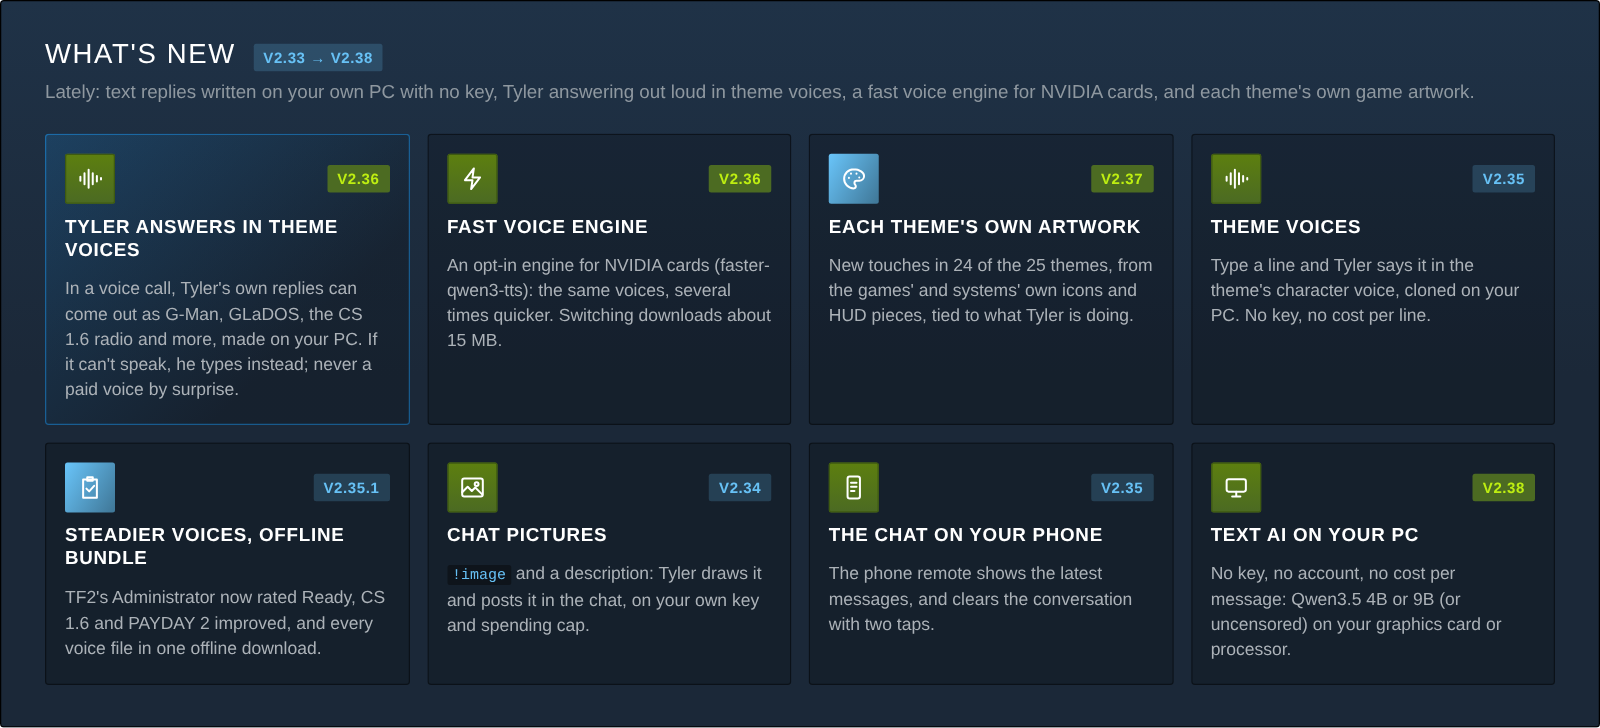
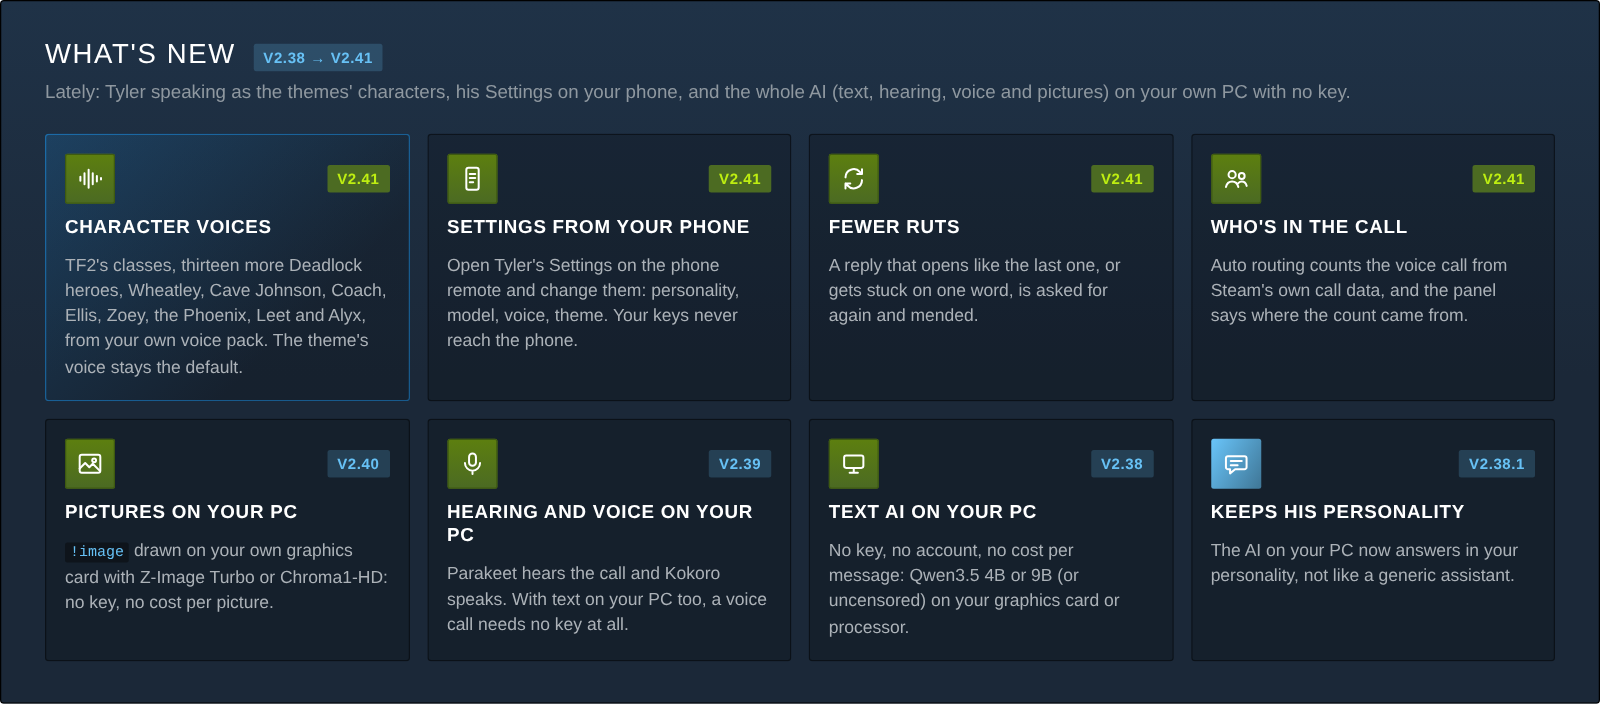
README refresh for v2.41: two new feature images, What's new, phone Settings, fixed personality crop
- New: feature-pc (Settings → AI on this PC on an example PC: Qwen3.5 9B installed, Parakeet and
  Kokoro installed) and feature-characters (Settings → Theme voices → Character voices).
- Updated: What's new (v2.38 → v2.41), the phone remote card (third phone shows Settings on the phone),
  the personality card (the whole card; the save bar no longer cuts it), the repeat protection line.
- README: AI on your own PC row, phone remote Settings, desktop vs Chrome row, image alt texts.
- tools/readme-art/render.mjs: a PC-side Settings stub (the app's own GPU suggestion), Settings on the
  phone from the real remote server, and crop options (height, from, until, hide).

Docs only; build check, unit 487 and e2e 43 pass.

Claude-Session: https://claude.ai/code/session_01BnmFBSBRCmJ5AGaBHpXEjD

diff --git a/tools/readme-art/features.html b/tools/readme-art/features.html
@@ -60,7 +60,7 @@ code{font-family:var(--rt-font-mono);font-size:13px;color:var(--rt-link);backgro
 
 <!-- 2. Personality -->
 <div class="bg right" data-shot="feature-personality">
- <div class="m cut shot" style="left:56px;top:56px;width:640px;height:504px"><img data-panel="settings:zone=ai&sheets=%23personalitySheet" alt=""><div class="fade"></div></div>
+ <div class="m cut shot" style="left:56px;top:56px;width:640px;height:504px"><img data-panel="settings:zone=ai&sheets=%23personalitySheet&height=2400" alt=""><div class="fade"></div></div>
  <div class="copy"><span class="tag blue">Personality</span>
   <h2>He's your guy, your way</h2>
   <p>Start from a preset, then shape him with sliders or write him up in your own words.</p>
@@ -100,11 +100,11 @@ code{font-family:var(--rt-font-mono);font-size:13px;color:var(--rt-link);backgro
   <h2>Run Tyler from your phone</h2>
   <p>His panel on your phone, live and in your theme, with the theme's own extras. Nothing to install: the desktop app serves it on your home Wi-Fi.</p>
   <ul><li>Start and pause him, play clips, run the Music DJ, read and type in chat, run the full check.</li>
-   <li><b>Switch the theme</b> for every Tyler window, right from the phone.</li>
-   <li>Paired with a code from Settings. Its chat log shows what's being said; it never sees your keys.</li></ul></div>
+   <li><b>His Settings on the phone:</b> personality, AI model, voice, theme and more, saved on the PC.</li>
+   <li>Paired with a code from Settings. Your keys never reach the phone: it only shows whether one is saved.</li></ul></div>
  <div class="phone" style="left:536px;top:38px"><i class="k l" style="top:92px;height:20px"></i><i class="k l" style="top:126px;height:36px"></i><i class="k l" style="top:170px;height:36px"></i><i class="k r" style="top:140px;height:56px"></i><div class="glass"><div class="screen"><div class="sb"><b>9:41</b><span class="island"></span><span class="sys"><svg width="15" height="10" viewBox="0 0 15 10"><rect x="0" y="7" width="2.6" height="3" rx=".6"/><rect x="4" y="5" width="2.6" height="5" rx=".6"/><rect x="8" y="2.6" width="2.6" height="7.4" rx=".6"/><rect x="12" y="0" width="2.6" height="10" rx=".6"/></svg><svg width="13" height="10" viewBox="0 0 13 10"><path d="M6.5 2.1c1.9 0 3.6.7 4.9 1.9l1.1-1.1A8.5 8.5 0 0 0 6.5.5 8.5 8.5 0 0 0 .5 2.9L1.6 4a7 7 0 0 1 4.9-1.9Zm0 3a4.2 4.2 0 0 1 2.8 1.1l1.1-1.1A5.7 5.7 0 0 0 6.5 3.5a5.7 5.7 0 0 0-3.9 1.6l1.1 1.1a4.2 4.2 0 0 1 2.8-1.1Zm0 2.9 1.5-1.5a2.2 2.2 0 0 0-3 0L6.5 8Z"/></svg><span class="bat"></span></span></div><img data-panel="remote:theme=steam&tab=conversation" alt=""><i class="home"></i></div></div><span class="label">Steam</span></div>
  <div class="phone" style="left:768px;top:38px"><i class="k l" style="top:92px;height:20px"></i><i class="k l" style="top:126px;height:36px"></i><i class="k l" style="top:170px;height:36px"></i><i class="k r" style="top:140px;height:56px"></i><div class="glass"><div class="screen"><div class="sb"><b>9:41</b><span class="island"></span><span class="sys"><svg width="15" height="10" viewBox="0 0 15 10"><rect x="0" y="7" width="2.6" height="3" rx=".6"/><rect x="4" y="5" width="2.6" height="5" rx=".6"/><rect x="8" y="2.6" width="2.6" height="7.4" rx=".6"/><rect x="12" y="0" width="2.6" height="10" rx=".6"/></svg><svg width="13" height="10" viewBox="0 0 13 10"><path d="M6.5 2.1c1.9 0 3.6.7 4.9 1.9l1.1-1.1A8.5 8.5 0 0 0 6.5.5 8.5 8.5 0 0 0 .5 2.9L1.6 4a7 7 0 0 1 4.9-1.9Zm0 3a4.2 4.2 0 0 1 2.8 1.1l1.1-1.1A5.7 5.7 0 0 0 6.5 3.5a5.7 5.7 0 0 0-3.9 1.6l1.1 1.1a4.2 4.2 0 0 1 2.8-1.1Zm0 2.9 1.5-1.5a2.2 2.2 0 0 0-3 0L6.5 8Z"/></svg><span class="bat"></span></span></div><img data-panel="remote:theme=payday&tab=conversation&state=THINKING — preparing a typed reply…" alt=""><i class="home"></i></div></div><span class="label">PAYDAY 2</span></div>
- <div class="phone" style="left:1000px;top:38px"><i class="k l" style="top:92px;height:20px"></i><i class="k l" style="top:126px;height:36px"></i><i class="k l" style="top:170px;height:36px"></i><i class="k r" style="top:140px;height:56px"></i><div class="glass"><div class="screen"><div class="sb"><b>9:41</b><span class="island"></span><span class="sys"><svg width="15" height="10" viewBox="0 0 15 10"><rect x="0" y="7" width="2.6" height="3" rx=".6"/><rect x="4" y="5" width="2.6" height="5" rx=".6"/><rect x="8" y="2.6" width="2.6" height="7.4" rx=".6"/><rect x="12" y="0" width="2.6" height="10" rx=".6"/></svg><svg width="13" height="10" viewBox="0 0 13 10"><path d="M6.5 2.1c1.9 0 3.6.7 4.9 1.9l1.1-1.1A8.5 8.5 0 0 0 6.5.5 8.5 8.5 0 0 0 .5 2.9L1.6 4a7 7 0 0 1 4.9-1.9Zm0 3a4.2 4.2 0 0 1 2.8 1.1l1.1-1.1A5.7 5.7 0 0 0 6.5 3.5a5.7 5.7 0 0 0-3.9 1.6l1.1 1.1a4.2 4.2 0 0 1 2.8-1.1Zm0 2.9 1.5-1.5a2.2 2.2 0 0 0-3 0L6.5 8Z"/></svg><span class="bat"></span></span></div><img data-panel="remote:theme=pipboy&tab=setup&state=LISTENING — speak normally, then pause" alt=""><i class="home"></i></div></div><span class="label">Pip-Boy · theme picker</span></div>
+ <div class="phone" style="left:1000px;top:38px"><i class="k l" style="top:92px;height:20px"></i><i class="k l" style="top:126px;height:36px"></i><i class="k l" style="top:170px;height:36px"></i><i class="k r" style="top:140px;height:56px"></i><div class="glass"><div class="screen"><div class="sb"><b>9:41</b><span class="island"></span><span class="sys"><svg width="15" height="10" viewBox="0 0 15 10"><rect x="0" y="7" width="2.6" height="3" rx=".6"/><rect x="4" y="5" width="2.6" height="5" rx=".6"/><rect x="8" y="2.6" width="2.6" height="7.4" rx=".6"/><rect x="12" y="0" width="2.6" height="10" rx=".6"/></svg><svg width="13" height="10" viewBox="0 0 13 10"><path d="M6.5 2.1c1.9 0 3.6.7 4.9 1.9l1.1-1.1A8.5 8.5 0 0 0 6.5.5 8.5 8.5 0 0 0 .5 2.9L1.6 4a7 7 0 0 1 4.9-1.9Zm0 3a4.2 4.2 0 0 1 2.8 1.1l1.1-1.1A5.7 5.7 0 0 0 6.5 3.5a5.7 5.7 0 0 0-3.9 1.6l1.1 1.1a4.2 4.2 0 0 1 2.8-1.1Zm0 2.9 1.5-1.5a2.2 2.2 0 0 0-3 0L6.5 8Z"/></svg><span class="bat"></span></span></div><img data-panel="phoneset:theme=pipboy&zone=ai" alt=""><i class="home"></i></div></div><span class="label">Pip-Boy · Settings</span></div>
 </div>
 
 <!-- 6. Staying connected (v2.26 README) -->
@@ -116,7 +116,31 @@ code{font-family:var(--rt-font-mono);font-size:13px;color:var(--rt-link);backgro
   <p>Tyler keeps himself in the call and on the chat, and tells you plainly when something needs you.</p>
   <ul><li><b>Stay connected:</b> after 45 quiet minutes he hums once, softly, so Steam doesn't drop him. If Steam redraws the chat, he finds the same channel again.</li>
    <li><b>Full check:</b> chat, microphone, call, music, AI key, speech and a test beep in one pass.</li>
-   <li><b>Repeat protection:</b> he notices when he's saying the same thing again.</li></ul></div>
+   <li><b>Repeat protection:</b> he notices when he's saying the same thing again, opening every reply the same way or stuck on one word.</li></ul></div>
+</div>
+
+<!-- 7. AI on your PC (v2.41 README): Settings → AI on this PC in the desktop app, as on an example PC -->
+<div class="bg left" data-shot="feature-pc">
+ <div class="copy"><span class="tag green">On your PC</span>
+  <h2>AI on your own PC</h2>
+  <p>In the desktop app, Tyler can write, hear, speak and draw on your own PC. No key, no account, no cost per message.</p>
+  <ul><li><b>Text:</b> Qwen3.5 4B or 9B (or uncensored) on any recent NVIDIA, AMD or Intel card, or the processor.</li>
+   <li><b>Voice calls:</b> Parakeet hears, Kokoro or the theme voices speak. With all three, a call needs no key.</li>
+   <li><b>Pictures:</b> Z-Image Turbo or Chroma1-HD; the description isn't sent anywhere.</li>
+   <li>Optional downloads, sizes shown first. He never switches to a cloud AI by himself.</li></ul></div>
+ <div class="m shot" style="left:552px;top:44px;width:672px"><img data-panel="settings:zone=ai&sheets=%23localAI&desktop=1&stub=pc&until=%23laModelNote&hide=%23localAI%20.sheet-head%20p%2C%23localAI%20.la-models%20.engine-card%3Anth-child(n%2B3)&height=2400" alt=""></div>
+ <div class="m shot" style="left:700px;top:334px;width:524px"><img data-panel="settings:zone=ai&sheets=%23localAI&desktop=1&stub=pc&from=%23localSpeech&until=%23lsEngineNote&height=2400" alt=""></div>
+</div>
+
+<!-- 8. Character voices (v2.41 README): Settings → Voice → Theme voices → Character voices -->
+<div class="bg right" data-shot="feature-characters">
+ <div class="m cut shot" style="left:56px;top:48px;width:640px;height:512px"><img data-panel="settings:zone=voice&sheets=%23theme-voices&desktop=1&stub=pc&from=%23theme-voices%20h3%3Ahas(%2B%20p%20%2B%20%23tvCharState)&until=%23tvCharVoiceState%20%2B%20h3&height=2400" alt=""><div class="fade"></div></div>
+ <div class="copy"><span class="tag blue">Character voices</span>
+  <h2>Speak as the characters</h2>
+  <p>Six themes can also speak as one of their characters, from the voice pack you import. The theme's own voice stays the default.</p>
+  <ul><li><b>Team Fortress 2's classes,</b> thirteen more Deadlock heroes, Wheatley and Cave Johnson, Coach, Ellis and Zoey, the Phoenix and Leet, and Alyx.</li>
+   <li>One picker per theme, on the PC or the phone, with the <b>original recording</b> next to the <b>generated speech</b>.</li>
+   <li>If a character can't be used, Tyler says why and keeps the theme's voice. Never a silent switch.</li></ul></div>
 </div>
 
 <script>

diff --git a/tools/readme-art/whatsnew.html b/tools/readme-art/whatsnew.html
@@ -1,5 +1,5 @@
 <!doctype html><html><head><meta charset="utf-8"><link rel="stylesheet" href="common.css"><style>
-/* README "What's new" (v2.26, updated for v2.35): the releases since the last README update, as capsules in the app's
+/* README "What's new" (v2.26, updated for v2.35 and v2.41): the releases since the last README update, as capsules in the app's
    Steam theme: the panel's icons on Steam's blue, version chips, tracked capitals. 1.25x. */
 .bg{width:1280px;padding:30px 36px 34px;box-sizing:border-box;background:var(--rt-bg) linear-gradient(180deg,var(--rt-page-glow) 0,var(--rt-bg) 300px) no-repeat}
 .head{display:flex;align-items:baseline;gap:14px;margin:0 0 6px}
@@ -20,23 +20,23 @@ b.t{font-size:15px;font-weight:700;letter-spacing:.04em;text-transform:uppercase
 p{margin:0;font-size:14px;line-height:1.45;color:var(--rt-ink-2)}
 code{font-family:var(--rt-font-mono);font-size:12px;color:var(--rt-link);background:var(--rt-bg-deep);padding:1px 4px;border-radius:2px}
 </style><script src="../../browser-extension/ui-icons.js"></script></head><body><div class="bg" data-shot="whats-new">
-<div class="head"><h2>What's new</h2><span class="tag blue">v2.33 → v2.38</span></div>
-<p class="lede">Lately: text replies written on your own PC with no key, Tyler answering out loud in theme voices, a fast voice engine for NVIDIA cards, and each theme's own game artwork.</p>
+<div class="head"><h2>What's new</h2><span class="tag blue">v2.38 → v2.41</span></div>
+<p class="lede">Lately: Tyler speaking as the themes' characters, his Settings on your phone, and the whole AI (text, hearing, voice and pictures) on your own PC with no key.</p>
 <div class="g">
- <div class="c big"><div class="top"><div class="i green"><svg class="own" viewBox="0 0 20 20"><path d="M3 8.5v3M6 6v8M9 3.5v13M12 6v8M15 8v4M18 9.5v1"/></svg></div><span class="tag green v">v2.36</span></div>
-  <b class="t">Tyler answers in theme voices</b><p>In a voice call, Tyler's own replies can come out as G-Man, GLaDOS, the CS 1.6 radio and more, made on your PC. If it can't speak, he types instead; never a paid voice by surprise.</p></div>
- <div class="c"><div class="top"><div class="i green"><svg class="own" viewBox="0 0 20 20"><path d="M11 2.5 4.5 11H10l-1 6.5L15.5 9H10z"/></svg></div><span class="tag green v">v2.36</span></div>
-  <b class="t">Fast voice engine</b><p>An opt-in engine for NVIDIA cards (faster-qwen3-tts): the same voices, several times quicker. Switching downloads about 15 MB.</p></div>
- <div class="c"><div class="top"><div class="i" data-icon="appearance"></div><span class="tag green v">v2.37</span></div>
-  <b class="t">Each theme's own artwork</b><p>New touches in 24 of the 25 themes, from the games' and systems' own icons and HUD pieces, tied to what Tyler is doing.</p></div>
- <div class="c"><div class="top"><div class="i green"><svg class="own" viewBox="0 0 20 20"><path d="M3 8.5v3M6 6v8M9 3.5v13M12 6v8M15 8v4M18 9.5v1"/></svg></div><span class="tag blue v">v2.35</span></div>
-  <b class="t">Theme voices</b><p>Type a line and Tyler says it in the theme's character voice, cloned on your PC. No key, no cost per line.</p></div>
- <div class="c"><div class="top"><div class="i" data-icon="checks"></div><span class="tag blue v">v2.35.1</span></div>
-  <b class="t">Steadier voices, offline bundle</b><p>TF2's Administrator now rated Ready, CS 1.6 and PAYDAY 2 improved, and every voice file in one offline download.</p></div>
- <div class="c"><div class="top"><div class="i green"><svg class="own" viewBox="0 0 20 20"><rect x="2.5" y="3.5" width="15" height="13" rx="1.5"/><path d="M2.5 13.5l4-4 3 3 2.5-2.5 5 5"/><circle cx="13" cy="7.5" r="1.4"/></svg></div><span class="tag blue v">v2.34</span></div>
-  <b class="t">Chat pictures</b><p><code>!image</code> and a description: Tyler draws it and posts it in the chat, on your own key and spending cap.</p></div>
- <div class="c"><div class="top"><div class="i green"><svg class="own" viewBox="0 0 20 20"><rect x="5.5" y="2" width="9" height="16" rx="1.6"/><path d="M8 6.5h4M8 9.5h4M8 12.5h2.5"/></svg></div><span class="tag blue v">v2.35</span></div>
-  <b class="t">The chat on your phone</b><p>The phone remote shows the latest messages, and clears the conversation with two taps.</p></div>
- <div class="c"><div class="top"><div class="i green"><svg class="own" viewBox="0 0 20 20"><rect x="3" y="4" width="14" height="9" rx="1.5"/><path d="M7 16.5h6M10 13v3.5"/></svg></div><span class="tag green v">v2.38</span></div>
+ <div class="c big"><div class="top"><div class="i green"><svg class="own" viewBox="0 0 20 20"><path d="M3 8.5v3M6 6v8M9 3.5v13M12 6v8M15 8v4M18 9.5v1"/></svg></div><span class="tag green v">v2.41</span></div>
+  <b class="t">Character voices</b><p>TF2's classes, thirteen more Deadlock heroes, Wheatley, Cave Johnson, Coach, Ellis, Zoey, the Phoenix, Leet and Alyx, from your own voice pack. The theme's voice stays the default.</p></div>
+ <div class="c"><div class="top"><div class="i green"><svg class="own" viewBox="0 0 20 20"><rect x="5.5" y="2" width="9" height="16" rx="1.6"/><path d="M8 6.5h4M8 9.5h4M8 12.5h2.5"/></svg></div><span class="tag green v">v2.41</span></div>
+  <b class="t">Settings from your phone</b><p>Open Tyler's Settings on the phone remote and change them: personality, model, voice, theme. Your keys never reach the phone.</p></div>
+ <div class="c"><div class="top"><div class="i green"><svg class="own" viewBox="0 0 20 20"><path d="M4 9a6 6 0 0 1 10.5-3.9L16 6.5M16 3v3.5h-3.5M16 11a6 6 0 0 1-10.5 3.9L4 13.5M4 17v-3.5h3.5"/></svg></div><span class="tag green v">v2.41</span></div>
+  <b class="t">Fewer ruts</b><p>A reply that opens like the last one, or gets stuck on one word, is asked for again and mended.</p></div>
+ <div class="c"><div class="top"><div class="i green"><svg class="own" viewBox="0 0 20 20"><circle cx="7" cy="7" r="2.6"/><circle cx="14" cy="8" r="2.1"/><path d="M2.5 16c.6-2.6 2.3-4 4.5-4s3.9 1.4 4.5 4M11.5 13.2c.7-.8 1.6-1.2 2.5-1.2 1.8 0 3.1 1.1 3.6 3.2"/></svg></div><span class="tag green v">v2.41</span></div>
+  <b class="t">Who's in the call</b><p>Auto routing counts the voice call from Steam's own call data, and the panel says where the count came from.</p></div>
+ <div class="c"><div class="top"><div class="i green"><svg class="own" viewBox="0 0 20 20"><rect x="2.5" y="3.5" width="15" height="13" rx="1.5"/><path d="M2.5 13.5l4-4 3 3 2.5-2.5 5 5"/><circle cx="13" cy="7.5" r="1.4"/></svg></div><span class="tag blue v">v2.40</span></div>
+  <b class="t">Pictures on your PC</b><p><code>!image</code> drawn on your own graphics card with Z-Image Turbo or Chroma1-HD: no key, no cost per picture.</p></div>
+ <div class="c"><div class="top"><div class="i green"><svg class="own" viewBox="0 0 20 20"><rect x="7.5" y="2.5" width="5" height="9" rx="2.5"/><path d="M4.5 9.5a5.5 5.5 0 0 0 11 0M10 15v2.5"/></svg></div><span class="tag blue v">v2.39</span></div>
+  <b class="t">Hearing and voice on your PC</b><p>Parakeet hears the call and Kokoro speaks. With text on your PC too, a voice call needs no key at all.</p></div>
+ <div class="c"><div class="top"><div class="i green"><svg class="own" viewBox="0 0 20 20"><rect x="3" y="4" width="14" height="9" rx="1.5"/><path d="M7 16.5h6M10 13v3.5"/></svg></div><span class="tag blue v">v2.38</span></div>
   <b class="t">Text AI on your PC</b><p>No key, no account, no cost per message: Qwen3.5 4B or 9B (or uncensored) on your graphics card or processor.</p></div>
+ <div class="c"><div class="top"><div class="i" data-icon="chat"></div><span class="tag blue v">v2.38.1</span></div>
+  <b class="t">Keeps his personality</b><p>The AI on your PC now answers in your personality, not like a generic assistant.</p></div>
 </div></div><script>TylerIcons.fill();</script></body></html>

diff --git a/tools/readme-art/icons.html b/tools/readme-art/icons.html
@@ -18,5 +18,6 @@
 <div class="i" data-shot="icon-remote"><svg class="ic own" viewBox="0 0 20 20"><rect x="5.5" y="2" width="9" height="16" rx="1.6"/><path d="M8.6 15.2h2.8"/><path d="M8 6.5l3 2-3 2z"/></svg></div>
 <div class="i" data-shot="icon-theme-voices"><svg class="ic own" viewBox="0 0 20 20"><path d="M3 8.5v3M6 6v8M9 3.5v13M12 6v8M15 8v4M18 9.5v1"/></svg></div>
 <div class="i" data-shot="icon-images"><svg class="ic own" viewBox="0 0 20 20"><rect x="2.5" y="3.5" width="15" height="13" rx="1.5"/><path d="M2.5 13.5l4-4 3 3 2.5-2.5 5 5"/><circle cx="13" cy="7.5" r="1.4"/></svg></div>
+<div class="i green" data-shot="icon-pc"><svg class="ic own" viewBox="0 0 20 20"><rect x="3" y="4" width="14" height="9" rx="1.5"/><path d="M7 16.5h6M10 13v3.5"/></svg></div>
 <div class="i" data-shot="icon-stay"><svg class="ic own" viewBox="0 0 20 20"><path d="M2 10.5h3.2l1.6-3.6 2.6 7 2.2-5.2 1.3 1.8H18"/></svg></div>
 </div><script>TylerIcons.fill();</script></body></html>

diff --git a/README.md b/README.md
@@ -15,7 +15,7 @@
 
 <p align="center"><b>Tyler is an AI squadmate for Steam.</b> He sits in your group chat and voice channel, talks like one of the crew, and keeps the night going with trivia, votes, sounds and music.</p>
 
-<p align="center"><a href="CHANGES.md"><img src="assets/readme/whats-new.png" width="100%" alt="What's new since v2.33: text AI on your PC with no key (v2.38), Tyler answers in theme voices (v2.36), a fast voice engine for NVIDIA cards (v2.36), each theme's own game artwork (v2.37), theme voices (v2.35), steadier voices and an offline bundle (v2.35.1), chat pictures (v2.34) and the chat on your phone (v2.35)."></a></p>
+<p align="center"><a href="CHANGES.md"><img src="assets/readme/whats-new.png" width="100%" alt="What's new since v2.38: character voices (v2.41), Settings from your phone (v2.41), fewer repeated openings and stuck words (v2.41), who's in the call from Steam's own data (v2.41), pictures on your PC (v2.40), hearing and voice on your PC (v2.39), text AI on your PC (v2.38) and keeping your personality on it (v2.38.1)."></a></p>
 
 ---
 
@@ -39,8 +39,11 @@
 <td valign="top"><img src="assets/readme/icon-images.png" width="52" align="left" alt="">&nbsp;<b>Chat pictures</b> <sup>new</sup><br>&nbsp;<code>!image</code> and a description: Tyler draws it and posts it in the chat, with your own OpenRouter or Venice key and within your spending cap, or on your own PC with no key (desktop app, v2.40).</td>
 </tr>
 <tr>
-<td valign="top"><img src="assets/readme/icon-remote.png" width="52" align="left" alt="">&nbsp;<b>Phone remote</b><br>&nbsp;Tyler's panel on your phone, live and in your theme. Start or pause him, play clips, run the music, read and type in chat, switch the theme, change his settings. Nothing to install.</td>
+<td valign="top"><img src="assets/readme/icon-remote.png" width="52" align="left" alt="">&nbsp;<b>Phone remote</b><br>&nbsp;Tyler's panel on your phone, live and in your theme. Start or pause him, play clips, run the music, read and type in chat, switch the theme, and open his <b>Settings</b> to change them (your keys stay on the PC). Nothing to install.</td>
 <td valign="top"><img src="assets/readme/icon-stay.png" width="52" align="left" alt="">&nbsp;<b>Stays in the call</b><br>&nbsp;A soft hum after 45 quiet minutes keeps Steam from dropping him, and he reconnects to the chat by himself. A full check tests every part in one pass.</td>
+</tr>
+<tr>
+<td colspan="2" valign="top"><img src="assets/readme/icon-pc.png" width="52" align="left" alt="">&nbsp;<b>AI on your own PC</b> <sup>new</sup><br>&nbsp;In the desktop app, Tyler can write his replies, hear the call, speak and draw the chat's pictures on your own graphics card or processor: no key, no account, no cost per message, and he never switches to a cloud AI by himself. Each part is an optional download.</td>
 </tr>
 </table>
 
@@ -50,10 +53,12 @@
 <p align="center"><img src="assets/readme/feature-personality.png" width="100%" alt="Personality: presets, humor, edginess, helpfulness and chaos sliders, a written description, roast intensity, reply length, speed and talkativeness."></p>
 <p align="center"><img src="assets/readme/feature-room.png" width="100%" alt="Room tools: the panel's Room tab with Music DJ open, and the Sounds tab with its soundboard pads."></p>
 <p align="center"><img src="assets/readme/feature-desktop.png" width="100%" alt="The desktop app: its own Steam chat window, with Tyler's panel on air docked beside the chat."></p>
-<p align="center"><img src="assets/readme/feature-remote.png" width="100%" alt="Phone remote: Tyler's panel on three phones, in the Steam, PAYDAY 2 and Pip-Boy themes, the last one showing the theme picker."></p>
+<p align="center"><img src="assets/readme/feature-pc.png" width="100%" alt="AI on your own PC: Settings → AI on this PC on an example PC with an RTX 3060, the Qwen3.5 9B model installed, and hearing (Parakeet) and voice (Kokoro) installed."></p>
+<p align="center"><img src="assets/readme/feature-characters.png" width="100%" alt="Character voices: Settings → Theme voices → Character voices, with a picker for Team Fortress 2, Counter-Strike 2, Portal and Left 4 Dead, each with Original recording and Generated speech."></p>
+<p align="center"><img src="assets/readme/feature-remote.png" width="100%" alt="Phone remote: Tyler's panel on three phones, in the Steam, PAYDAY 2 and Pip-Boy themes, the last one showing Tyler's Settings on the phone (AI & personality)."></p>
 <p align="center"><img src="assets/readme/feature-reliability.png" width="100%" alt="Long nights: the panel's Stay connected settings (hum after 45 quiet minutes, keep the chat connected) and the Checks tab with Run full check."></p>
 
-<sub>Screenshots of the real panel and settings with sample data (the text spend and names are examples).</sub>
+<sub>Screenshots of the real panel and settings with sample data (the text spend, names and the example PC are examples).</sub>
 
 ## Get going in a few minutes
 
@@ -61,7 +66,7 @@
 2. Open ROBOTIC TYLER and sign in to your bot's Steam account in its Steam chat window.
 3. In **Settings**, add an **OpenRouter** or **Google Gemini** key and pick a personality. In the desktop app you can instead choose **This PC (free, no key)**: Tyler's text replies are written by a model on your own PC (see below).
 4. Open your group chat, then **Tyler's panel → Connect & start**, and join the voice channel. That's it: no virtual audio cable, no extra microphone.
-5. *Optional:* **Settings → Overview → Phone remote**, scan the QR code with your phone and type the 6-digit code. Add the page to your home screen and Tyler is one tap away.
+5. *Optional:* **Settings → Overview → Phone remote**, scan the QR code with your phone and type the 6-digit code. Add the page to your home screen and Tyler is one tap away; its **Setup → Open Settings** changes his settings from the phone.
 
 > Setup isn't code-signed. If Windows says *"Windows protected your PC"*, choose **More info → Run anyway**. Setup checks each download's SHA-256 before it runs it, and the desktop app updates itself.
 
@@ -74,6 +79,7 @@
 | Tyler's panel | Docked beside the chat (or floating), resizable | Floating over the chat, resizable |
 | Music DJ and screen commentary | In-app YouTube window and screen picker | A YouTube tab and Chrome's share picker |
 | Phone remote | Yes: a page on your home Wi-Fi | No (an extension can't serve one) |
+| AI on your own PC | Yes: text replies, hearing, a voice and pictures, no key | No (it uses a cloud key) |
 | Staying connected | Quiet-call hum, chat reconnect | The same, and the tab stays awake in the background |
 | Install and updates | Setup installs it, it updates itself | Setup unpacks it; Chrome needs *Developer mode → Load unpacked* once |
 | Good for | A dedicated bot PC or account | Running Tyler next to your normal browsing |
